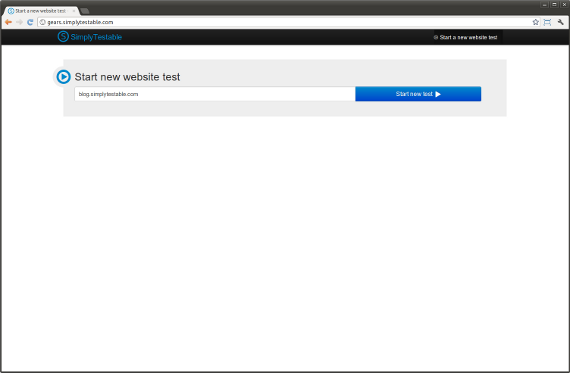
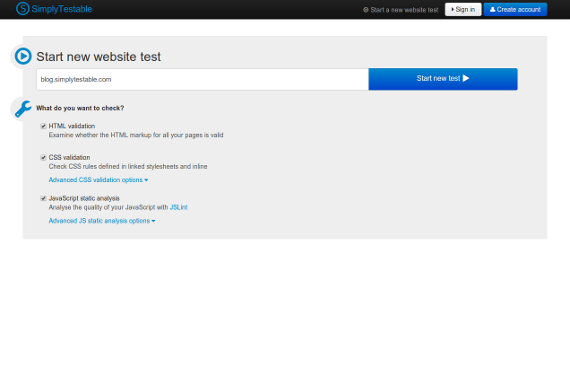
Updated carousel pics, emphasised and reworded intro list of tests

diff --git a/src/SimplyTestable/WebsiteBundle/Resources/public/css/homepage.css b/src/SimplyTestable/WebsiteBundle/Resources/public/css/homepage.css
@@ -284,7 +284,17 @@ body.homepage #start-new-test-form .test-options-set {
 
 body.homepage #start-new-test-form .test-options-set:hover {
     background-color:#e5e5e5;    
-}    
+}  
+
+body.homepage .intro strong {
+    font-weight: normal;
+    color:#000;
+}
+
+body.homepage .carousel-inner {    
+    border-radius: 2px;
+    box-shadow: 0px 0px 4px 1px #4c4b4a; 
+}
 
 @media (min-width: 1200px) {
     .tweet-container .tweet {
